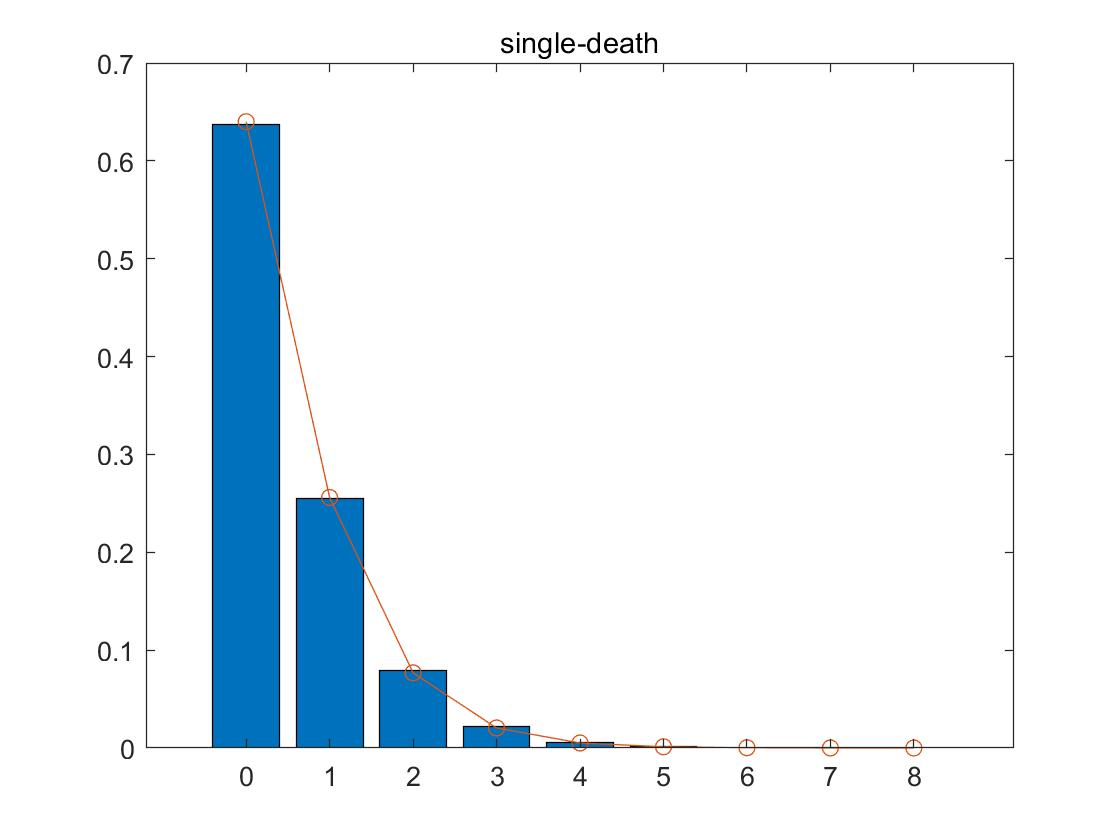
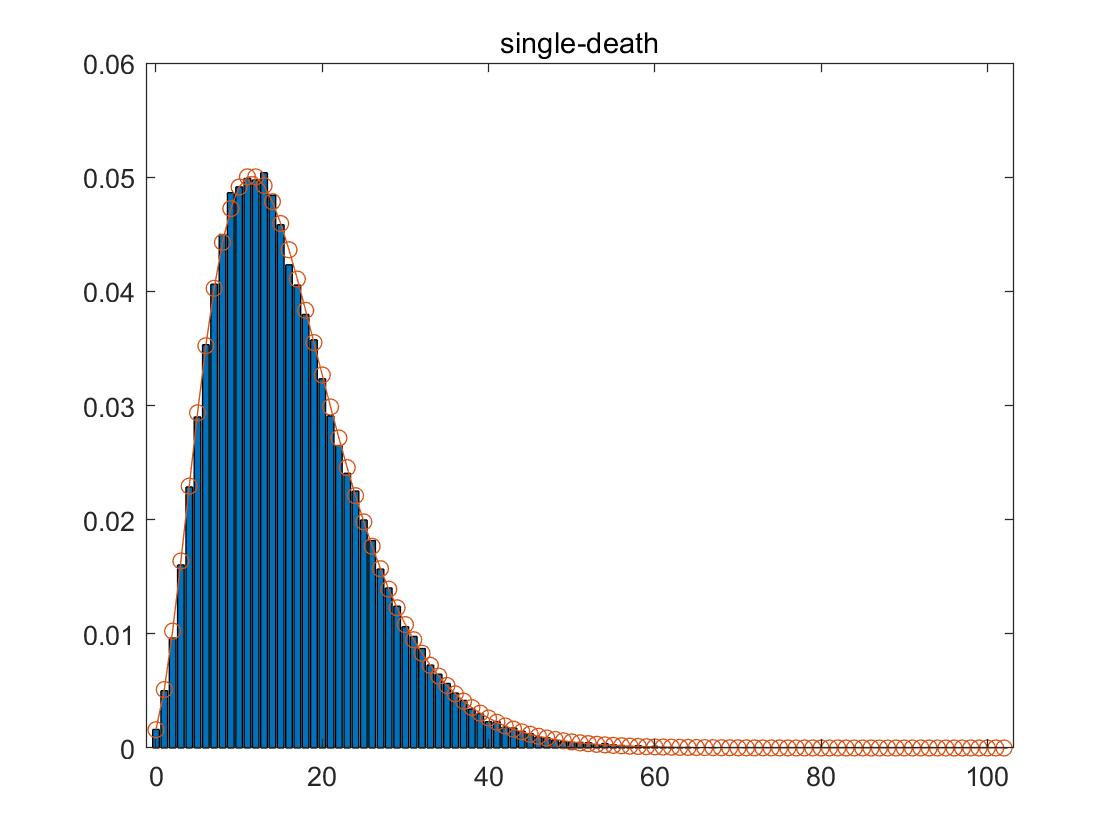
gamma

diff --git a/single_death.m b/single_death.m
@@ -7,9 +7,9 @@ next = state;
 
 %% model parameter
 rho = 4e-1;
-d = 2e-1;
+d = 1e-1;
 r = rho/d;
-p = 0.8;
+p = 0.2;
 q = 1- p;
 
 ptime = zeros(1,traj);
@@ -42,7 +42,8 @@ figure;
 bar(sta(:, 1), sta(:, 3)/100);
 hold on;
 x = 0:max(state);
-y = binopdf(x, x+r-1, 1-p)*p;
+% y = binopdf(x, x+r-1, 1-p)*p;
+y = gamma(r+x)./(gamma(r).*gamma(x+1)).*(1-p).^x.*p.^r;
 plot(x, y, '-o');
 title('single-death');
 
